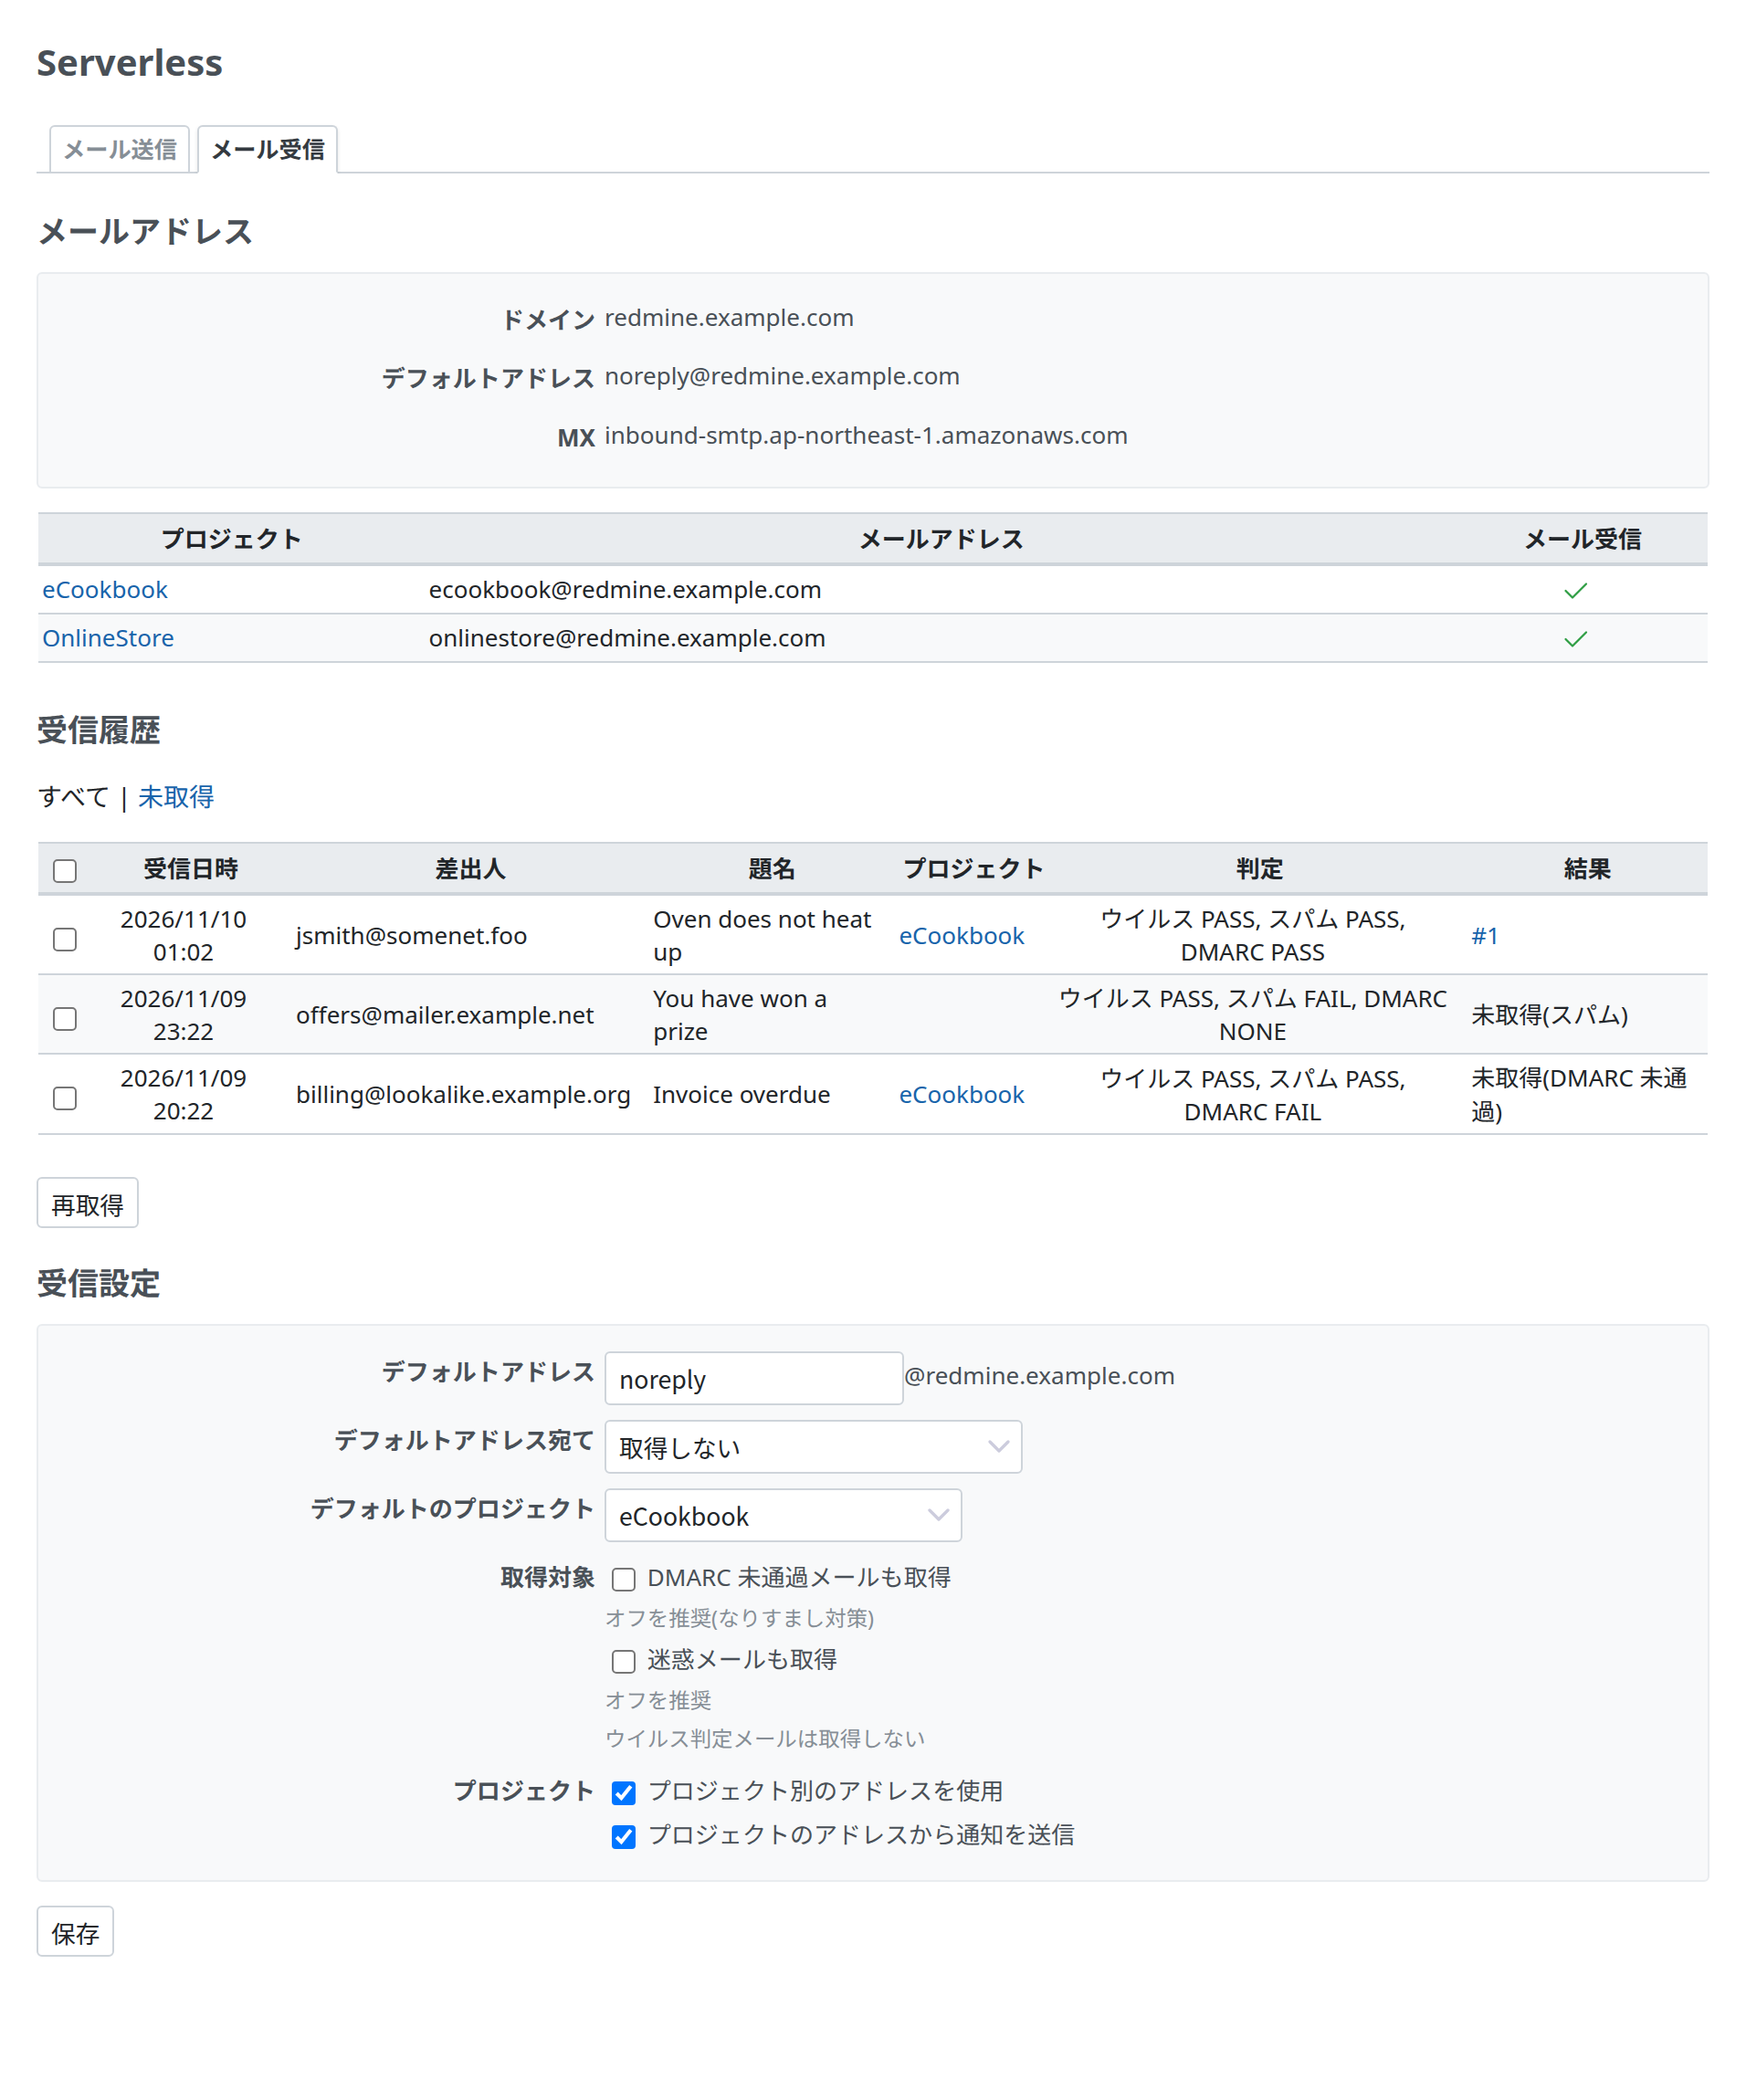
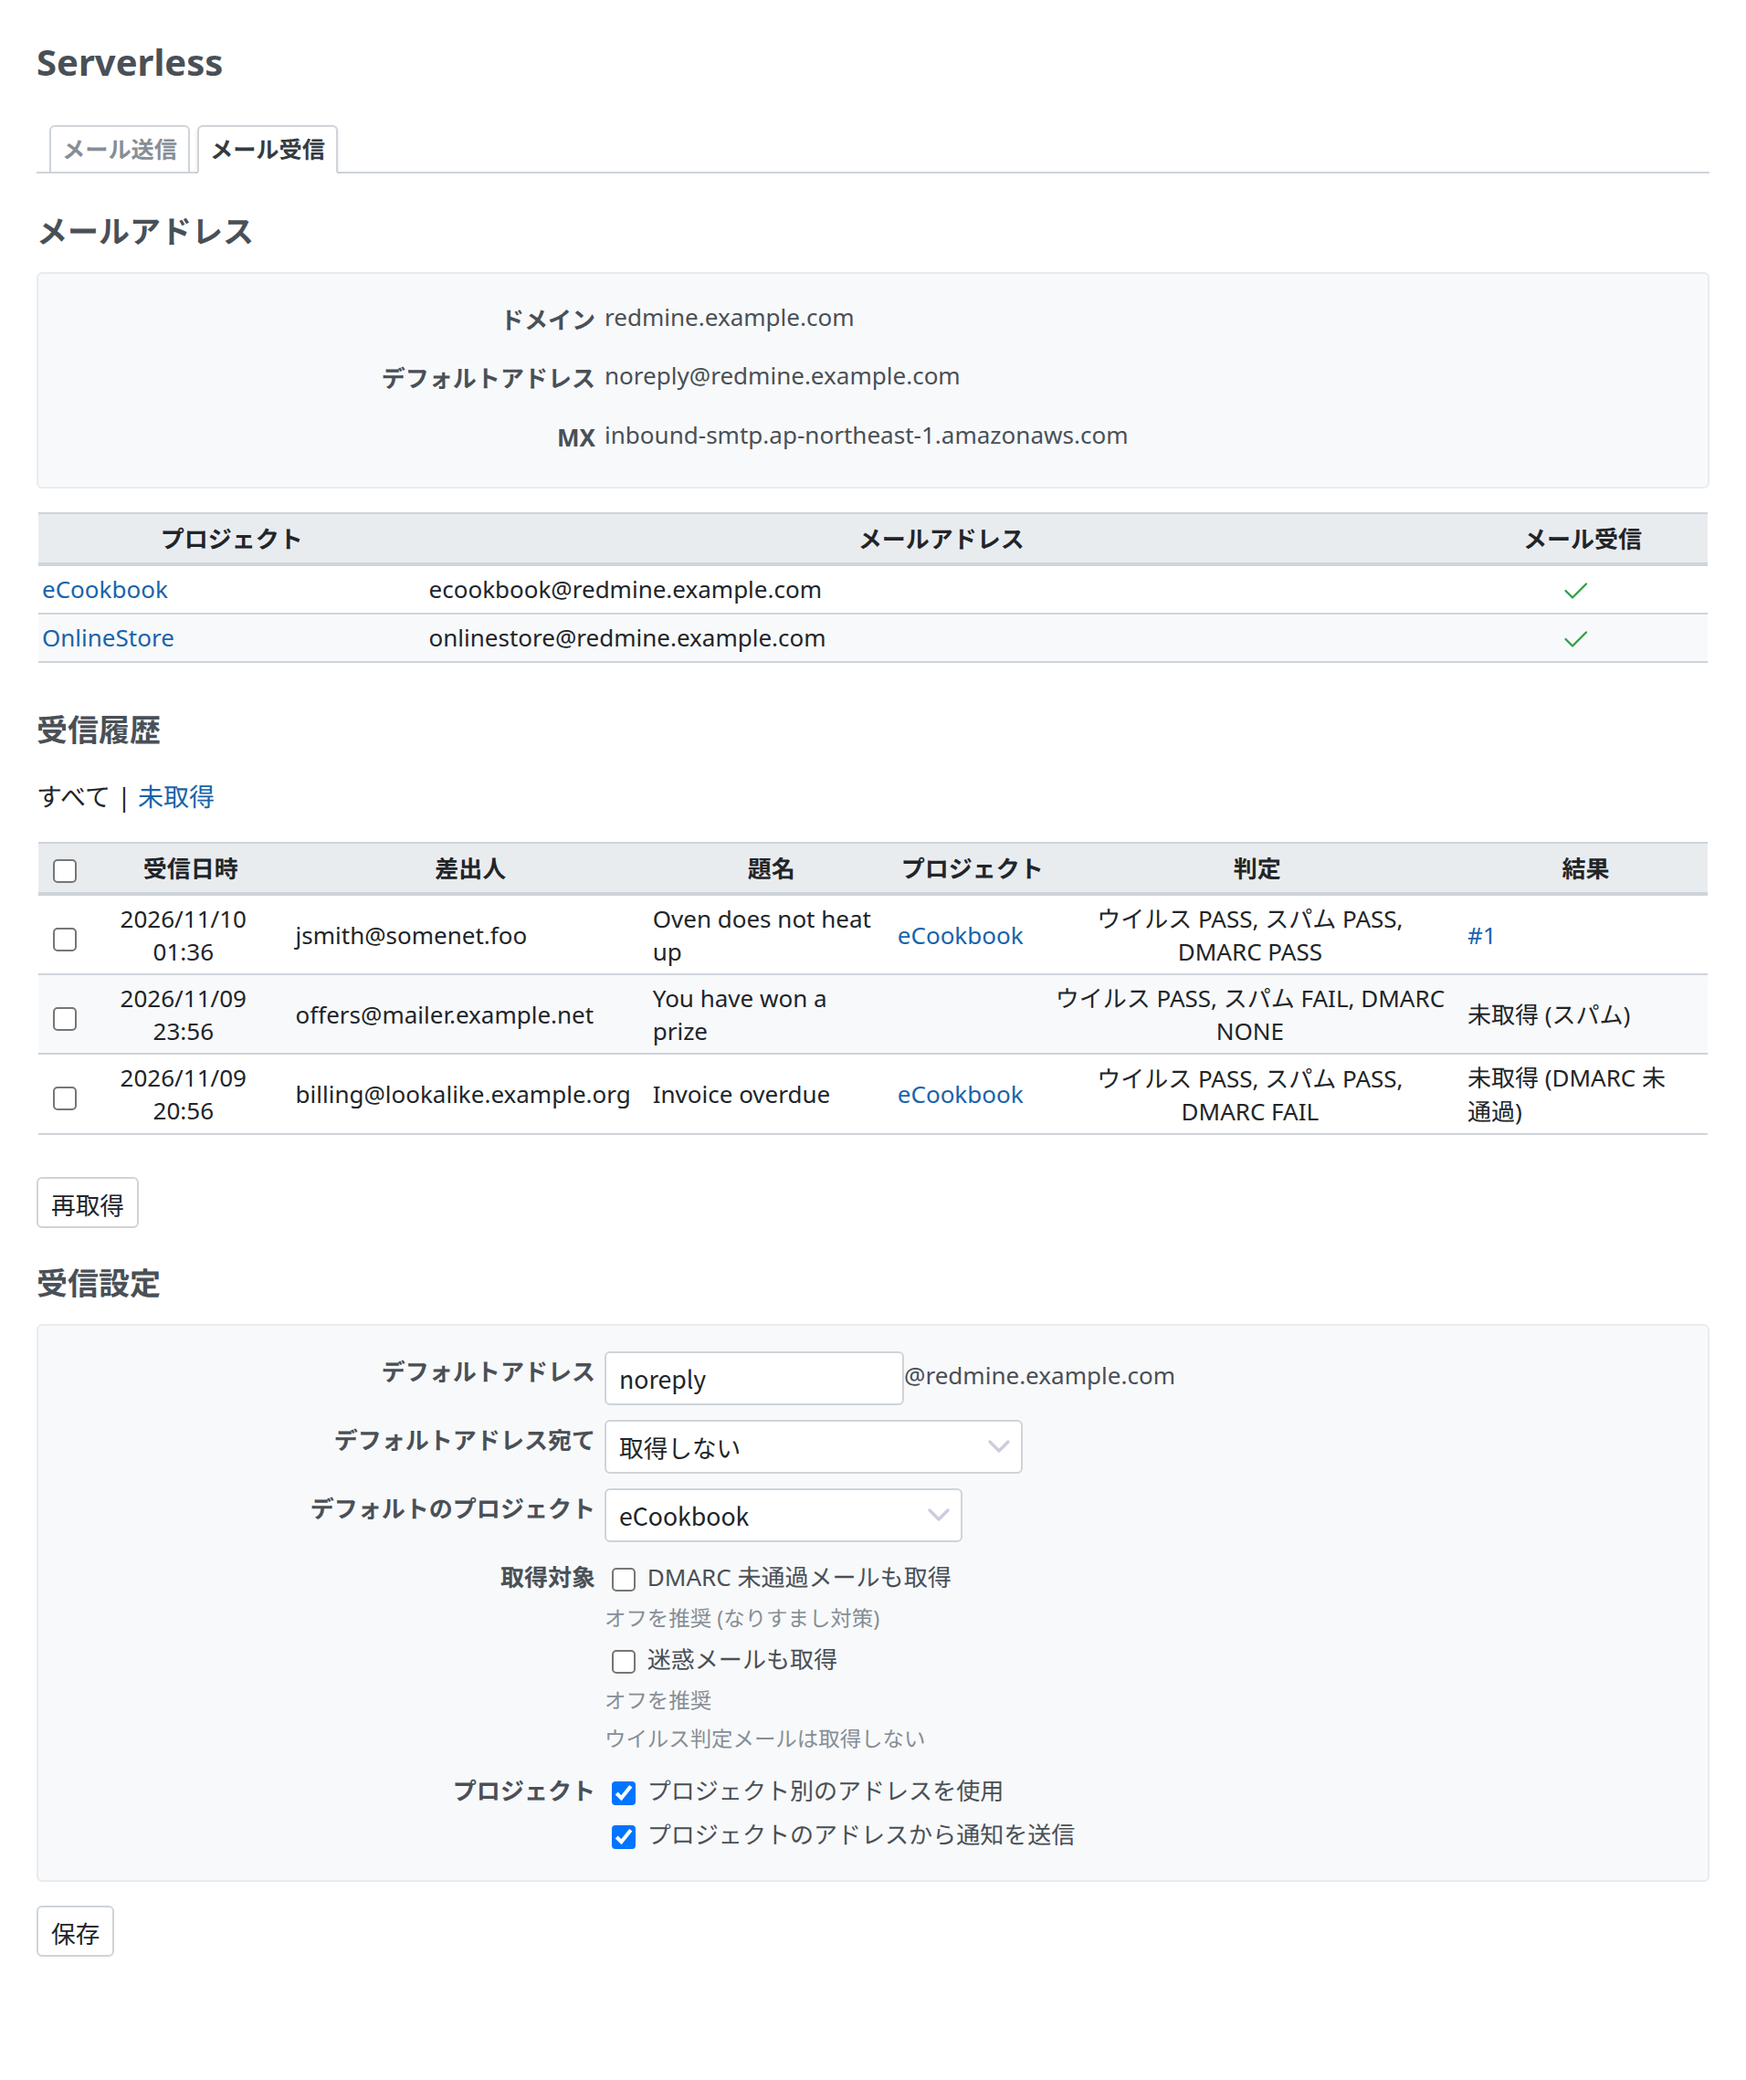
Space the parentheses and use the shared headings in Japanese
The result values read 未取得 (スパム) and the like; the docs use the shared compound headings. The screenshots are retaken.

diff --git a/README.ja.md b/README.ja.md
@@ -16,7 +16,7 @@ Redmine のメールを Amazon SES で送受信するための Redmine のプラ
 ## ドキュメント
 
 - Web サイト: https://redmine-kit.github.io/redmine_serverless_ses/ja/ (English: https://redmine-kit.github.io/redmine_serverless_ses/)
-- Markdown: [docs/ja/README.md](docs/ja/README.md) (English: [docs/README.md](docs/README.md))。[導入](docs/ja/setup.md)、[IAM の権限](docs/ja/iam.md)と[管理画面](docs/ja/admin.md)があります。
+- Markdown: [docs/ja/README.md](docs/ja/README.md) (English: [docs/README.md](docs/README.md))。[導入](docs/ja/setup.md)、[IAM 権限](docs/ja/iam.md)と[管理画面](docs/ja/admin.md)があります。
 
 <a id="sponsors"></a>
 

diff --git a/docs/ja/setup.md b/docs/ja/setup.md
@@ -123,7 +123,7 @@ bin/rake redmine_serverless_ses:prune_records[<日数>]
 
 <a id="aws-resources"></a>
 
-## AWS のリソース
+## AWS リソース
 
 | リソース | 設定 |
 | --- | --- |
@@ -135,7 +135,7 @@ bin/rake redmine_serverless_ses:prune_records[<日数>]
 
 <a id="iam-permissions"></a>
 
-## IAM の権限
+## IAM 権限
 
 プラグインに要る権限と例のポリシーは、[iam.md](iam.md) にあります。
 

diff --git a/docs/ja/iam.md b/docs/ja/iam.md
@@ -1,4 +1,4 @@
-# IAM の権限
+# IAM 権限
 
 プロセスごとの、プラグインが自分で呼ぶ AWS の操作です。Lambda そのものの権限(ログ、VPC の中での実行)は入れていません。ロールの全体は [Serverless の iam.md](https://redmine-kit.github.io/serverless/ja/iam.html) にあります。
 
